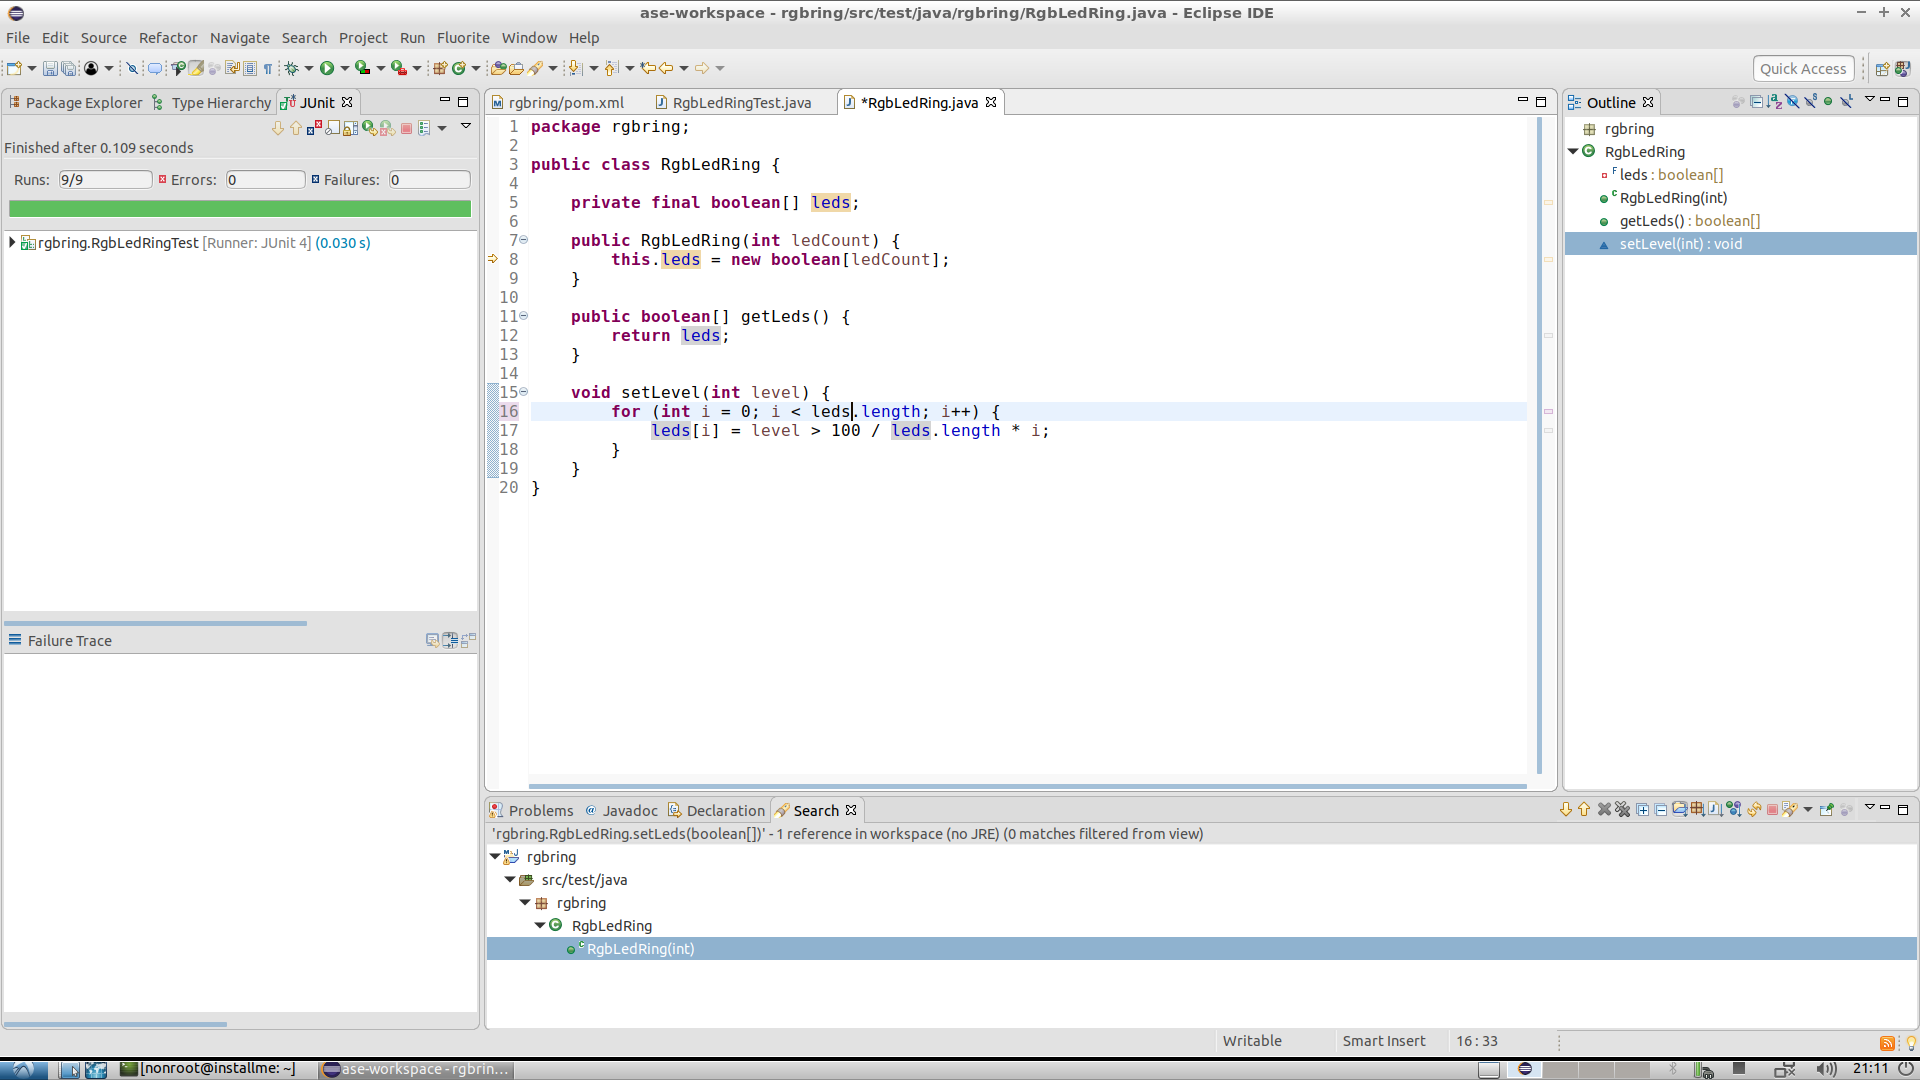
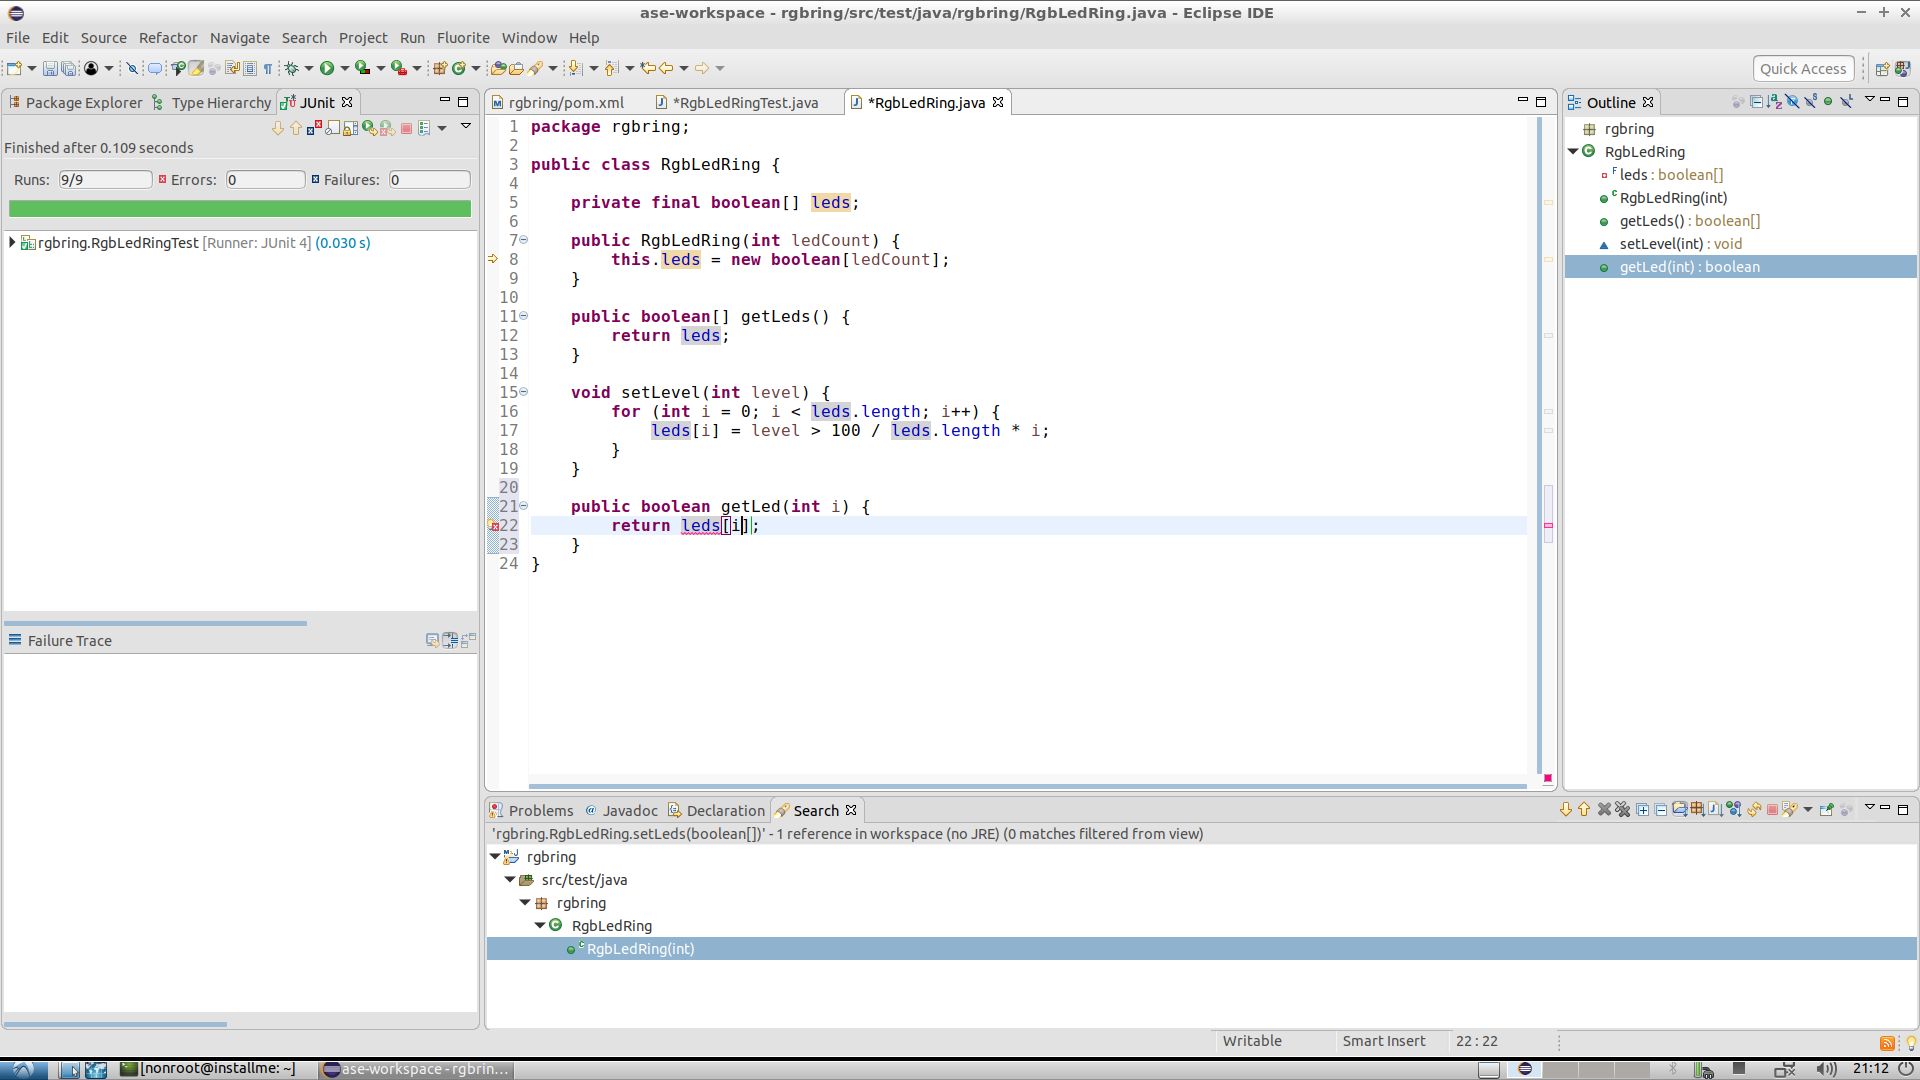
autocommit on change

diff --git a/src/test/java/rgbring/RgbLedRing.java b/src/test/java/rgbring/RgbLedRing.java
@@ -17,4 +17,8 @@ public class RgbLedRing {
 			leds[i] = level > 100 / leds.length * i;
 		}
 	}
+
+	public boolean getLed(int i) {
+		return leds[i];
+	}
 }
